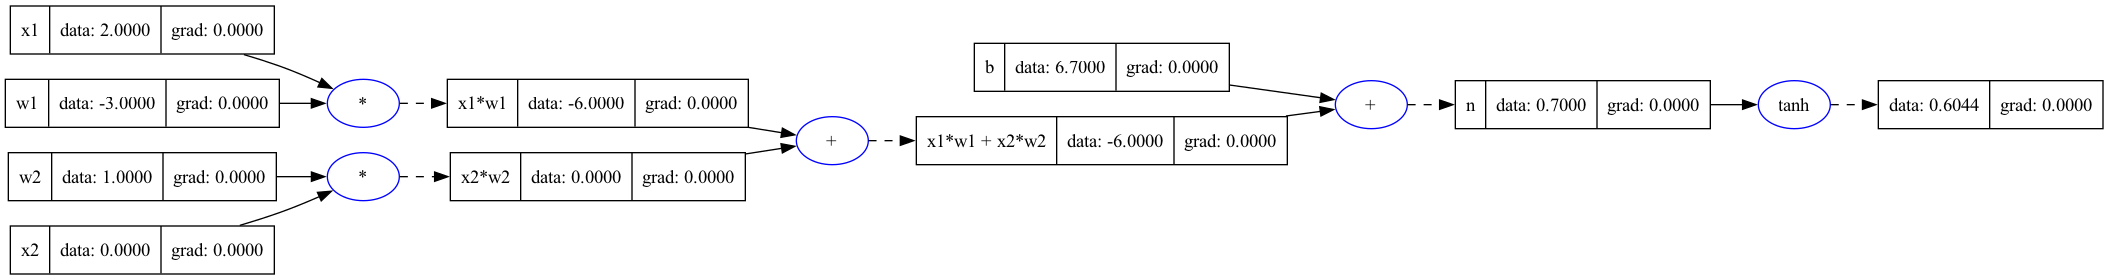
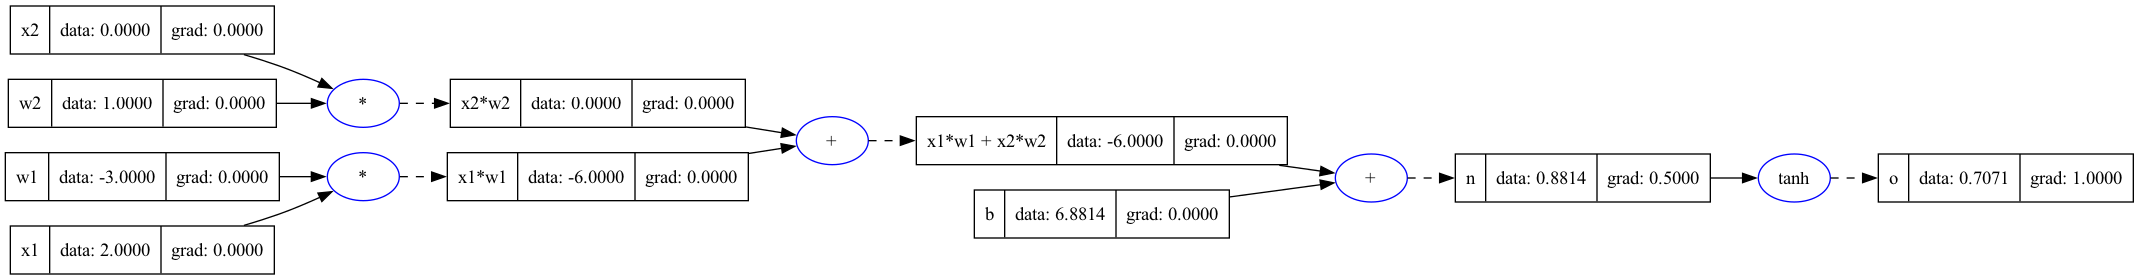
adding the derivative of o with respect to tanh

diff --git a/micrograd_from_scratch.py b/micrograd_from_scratch.py
@@ -72,6 +72,7 @@ class Value:
         return out
     
     # Implement the tanh function (hyperbolic function)
+    ## the tanh function is a non linear function that maps any real number to the range [-1,1]
     def tanh(self):
         x = self.data
         t = (math.exp(2 * x) - 1) / (math.exp(2 * x) + 1)
@@ -248,7 +249,7 @@ w1 = Value(-3.0, label="w1")
 w2 = Value(1.0, label="w2")
 
 # The bias of the neuron
-b = Value(6.7, label="b")
+b = Value(6.881373587019541, label="b")
 
 # Calculating the output of the function
 x1w1 = x1 * w1; x1w1.label = "x1*w1"
@@ -264,5 +265,19 @@ n = x1w1x2w2 + b; n.label = "n"
 draw_dot(n)
 
 # Calculating the output of the function with the hyperbolic tangent function
-o = n.tanh(); 
+
+
+o = n.tanh(); o.label = "o" 
+
+## Calculating the derivatives 
+
+# the derivative of o with respect to o (base case)
+o.grad = 1.0 
+
+# calculating the derivative of o with respect to n 
+n.grad = o.grad * (1 - o.data**2)
+
+# backpropagating through tanh 
+
+
 draw_dot(o)
